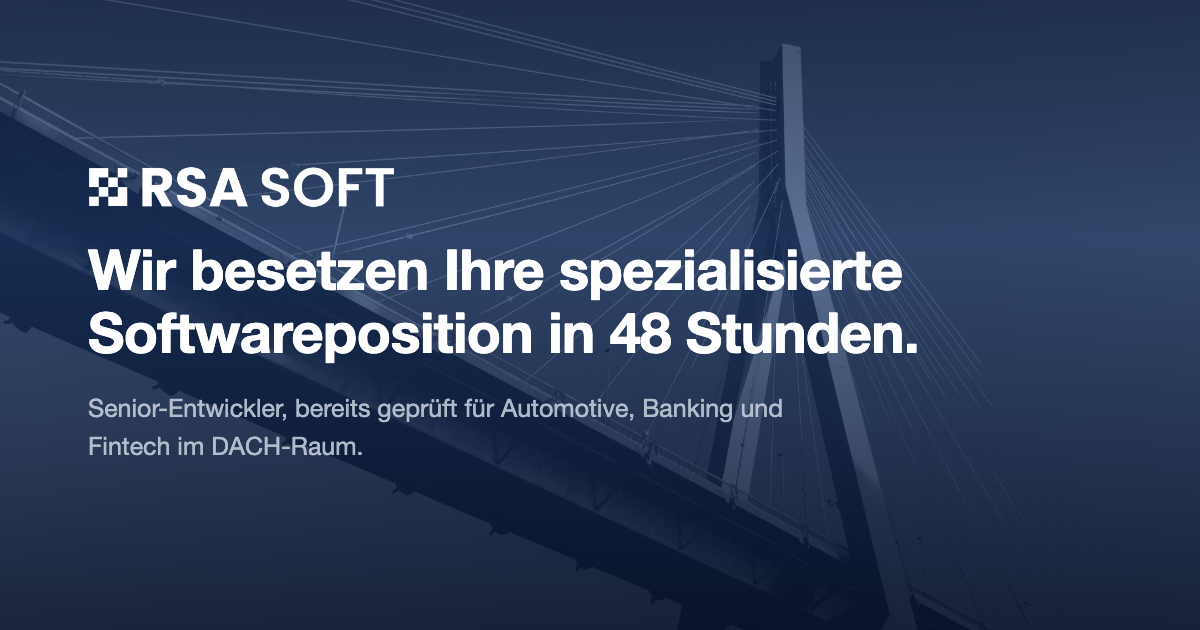
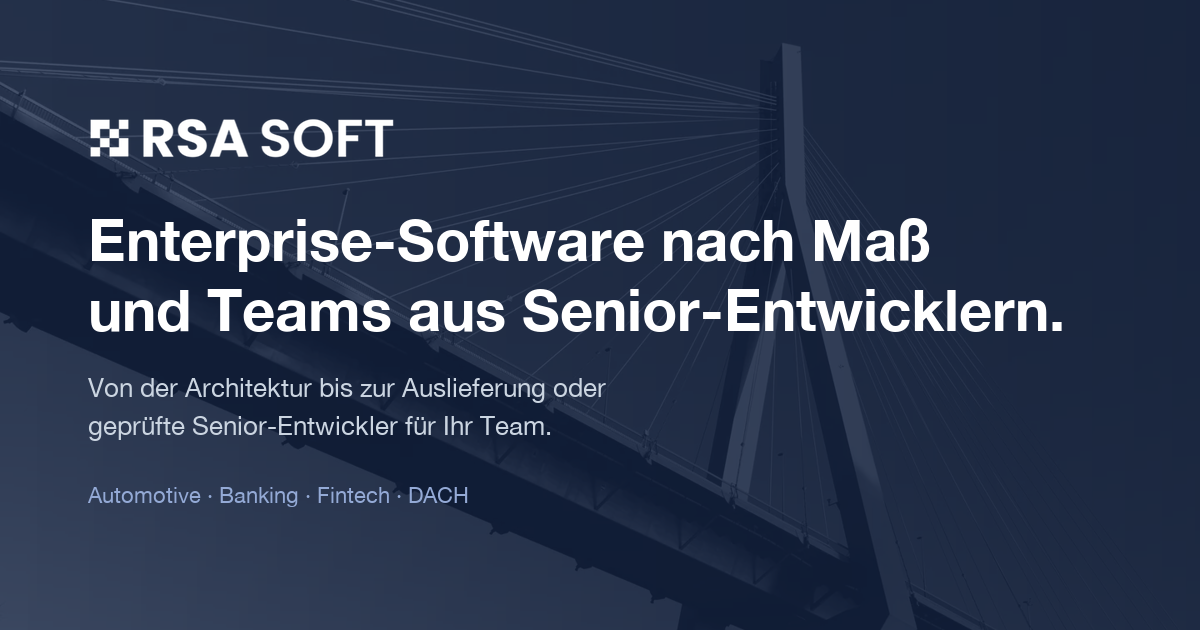
fix: update the link preview to the current positioning
The share card still pitched 24-48h developer staffing. The title,
descriptions, JSON-LD and og-image now lead with custom enterprise
software and senior developer teams. The image URL gets ?v=2 so social
platforms fetch the new one instead of their cached copy.

diff --git a/src/index.html b/src/index.html
@@ -3,9 +3,9 @@
 
 <head>
   <meta charset="utf-8">
-  <title>RSA SOFT — Entwickler in 24–48h für DACH-Unternehmen aus Automotive, Banking & Fintech</title>
+  <title>RSA SOFT — Enterprise-Software nach Maß und Senior-Entwickler für DACH</title>
   <meta name="description"
-    content="RSA SOFT besetzt spezialisierte Softwarepositionen in 24–48 Stunden statt in 3 Monaten. Geprüfte Senior-Entwickler für DACH-Unternehmen aus Automotive, Banking und Fintech, transparente Marge von 10 €/h.">
+    content="RSA SOFT entwickelt Enterprise-Software nach Maß und stellt Teams aus geprüften Senior-Entwicklern für Automotive, Banking und Fintech im DACH-Raum. Bisher wurde jede Besetzung innerhalb von 48 Stunden abgeschlossen, bei fester Marge von 10 €/h.">
   <meta name="viewport" content="width=device-width, initial-scale=1">
   <base href="/">
   <link rel="canonical" href="https://rsasoft.ro/">
@@ -15,10 +15,10 @@
   <meta property="og:site_name" content="RSA SOFT">
   <meta property="og:url" content="https://rsasoft.ro/">
   <meta property="og:title"
-    content="RSA SOFT — Entwickler in 24–48h für DACH-Unternehmen aus Automotive, Banking & Fintech">
+    content="RSA SOFT — Enterprise-Software nach Maß und Senior-Entwickler für DACH">
   <meta property="og:description"
-    content="Geprüfte Senior-Entwickler für DACH-Unternehmen aus Automotive, Banking und Fintech, in 24–48 Stunden einsatzbereit. Transparente Marge von 10 €/h, keine versteckten Aufschläge.">
-  <meta property="og:image" content="https://rsasoft.ro/og-image.png">
+    content="Wir entwickeln Ihre Software von der Architektur bis zur Auslieferung oder verstärken Ihr Team mit geprüften Senior-Entwicklern. Für Automotive, Banking und Fintech im DACH-Raum.">
+  <meta property="og:image" content="https://rsasoft.ro/og-image.png?v=2">
   <meta property="og:image:width" content="1200">
   <meta property="og:image:height" content="630">
   <meta property="og:locale" content="de_DE">
@@ -27,10 +27,10 @@
 
   <meta name="twitter:card" content="summary_large_image">
   <meta name="twitter:title"
-    content="RSA SOFT — Entwickler in 24–48h für DACH-Unternehmen aus Automotive, Banking & Fintech">
+    content="RSA SOFT — Enterprise-Software nach Maß und Senior-Entwickler für DACH">
   <meta name="twitter:description"
-    content="Geprüfte Senior-Entwickler für DACH-Unternehmen aus Automotive, Banking und Fintech, in 24–48 Stunden einsatzbereit.">
-  <meta name="twitter:image" content="https://rsasoft.ro/og-image.png">
+    content="Wir entwickeln Ihre Software von der Architektur bis zur Auslieferung oder verstärken Ihr Team mit geprüften Senior-Entwicklern. Für Automotive, Banking und Fintech im DACH-Raum.">
+  <meta name="twitter:image" content="https://rsasoft.ro/og-image.png?v=2">
 
   <script type="application/ld+json">
   {
@@ -49,7 +49,7 @@
       "addressCountry": "RO"
     },
     "areaServed": ["DE", "AT", "CH", "LI"],
-    "description": "Software staffing partner besetzt spezialisierte Entwicklerpositionen in 24-48 Stunden für DACH-Unternehmen aus Automotive, Banking und Fintech."
+    "description": "Enterprise-Software nach Maß und Teams aus geprüften Senior-Entwicklern für DACH-Unternehmen aus Automotive, Banking und Fintech."
   }
   </script>
 
